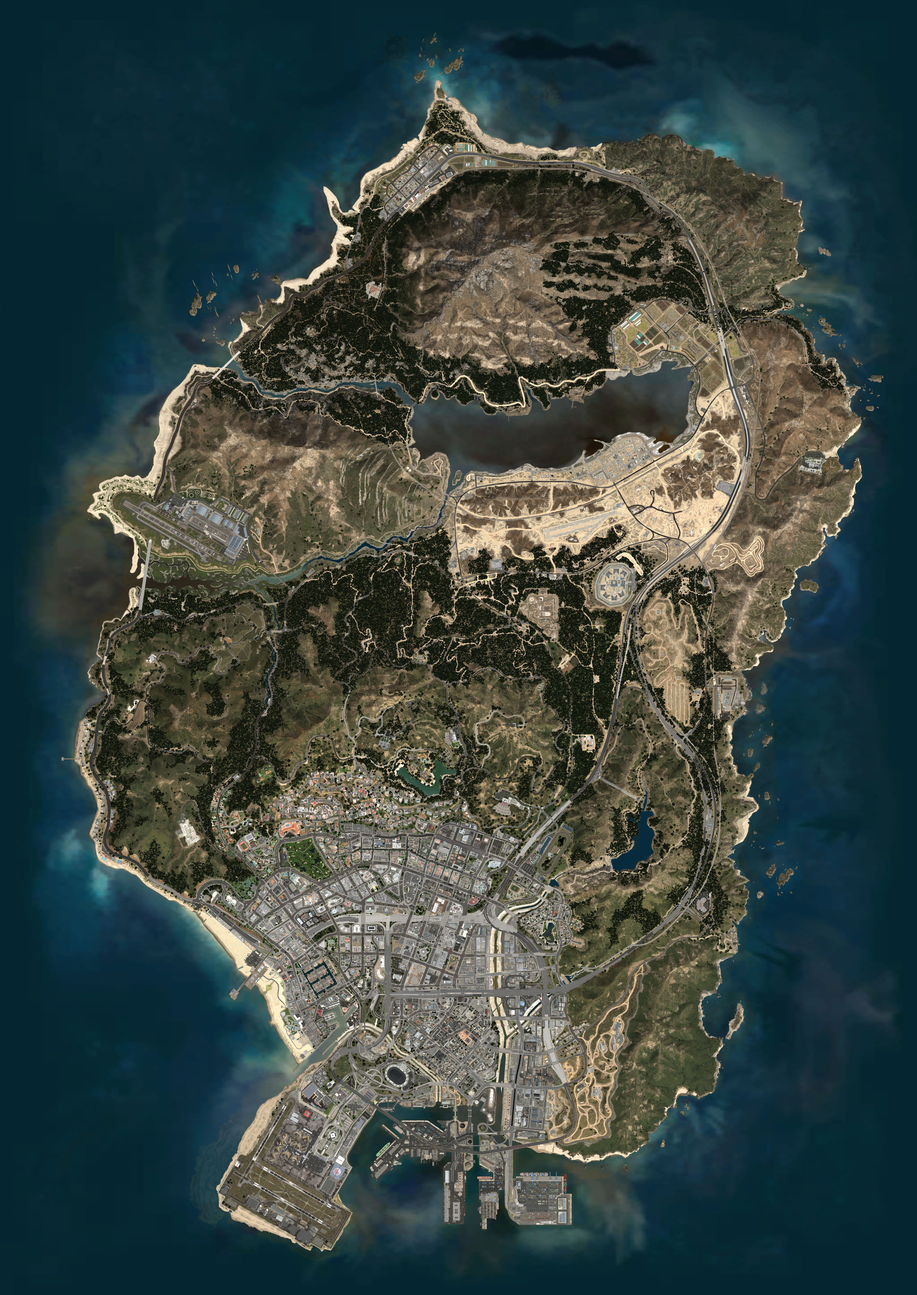
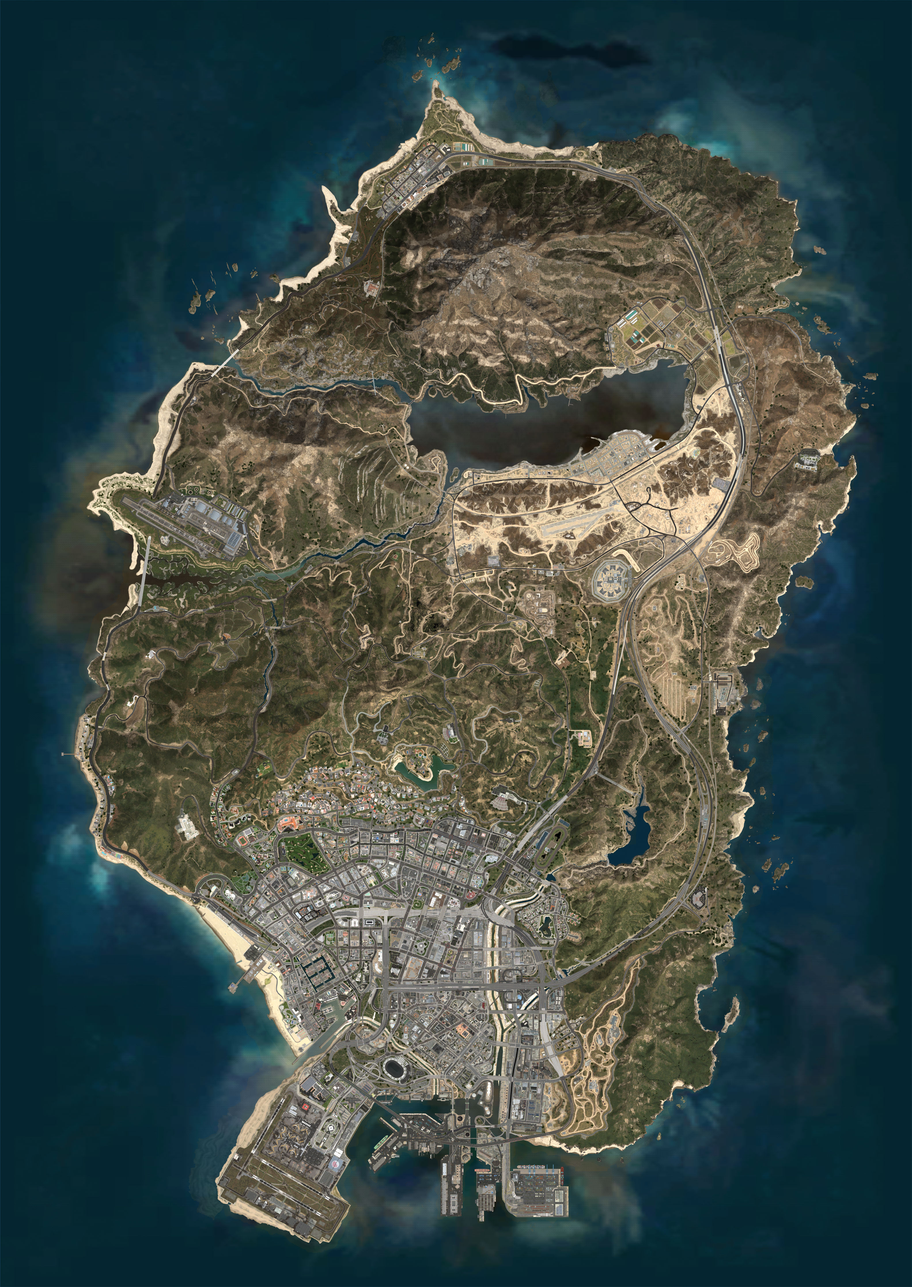
- replaced map.jpg by an image of the vanilla game - minor changes to EntropyCreator.py and z-fixer.py

diff --git a/z_fixer/z-fixer.py b/z_fixer/z-fixer.py
@@ -77,11 +77,11 @@ trees = {
     "prop_tree_maple_02": Tree(0.41, 0.05, None, math.pi / 6),
     "prop_tree_maple_03": Tree(0.35, 0.05, None, math.pi / 6),
     "prop_tree_mquite_01": Tree(0.45, -0.03, None, math.pi / 6),
-    "prop_tree_oak_01": Tree(2.4, -0.06, None, math.pi / 12),
+    "prop_tree_oak_01": Tree(2.68, -0.06, None, math.pi / 12),
     "prop_tree_olive_01": Tree(1.6, 0.1),
-    "prop_tree_pine_01": Tree(0.6, 0),
-    "prop_tree_pine_02": Tree(0.80, -0.04, None, math.pi / 6),
-    "prop_tree_stump_01": Tree(0.70, 0.02),
+    "prop_tree_pine_01": Tree(0.8, 0),
+    "prop_tree_pine_02": Tree(0.8, -0.04, None, math.pi / 6),
+    "prop_tree_stump_01": Tree(0.7, 0.02),
     "prop_w_r_cedar_01": Tree(1.34, 0, None, math.pi / 6),
     "prop_w_r_cedar_dead": Tree(1.34, 0.09),
     "test_tree_cedar_trunk_001": Tree(1.3, 0.09),

diff --git a/worker/EntropyCreator.py b/worker/EntropyCreator.py
@@ -124,7 +124,7 @@ class EntropyCreator:
         origScaleXY = float(match.group(8))
         origScaleZ = float(match.group(10))
 
-        maxScaleZ = random.uniform(0.9, 1.3)
+        maxScaleZ = random.uniform(0.9, 1.1)
 
         isRotationCandidate = self.isRotationCandidate(entity)
         isScaleCandidate = self.isScaleCandidate(entity)
